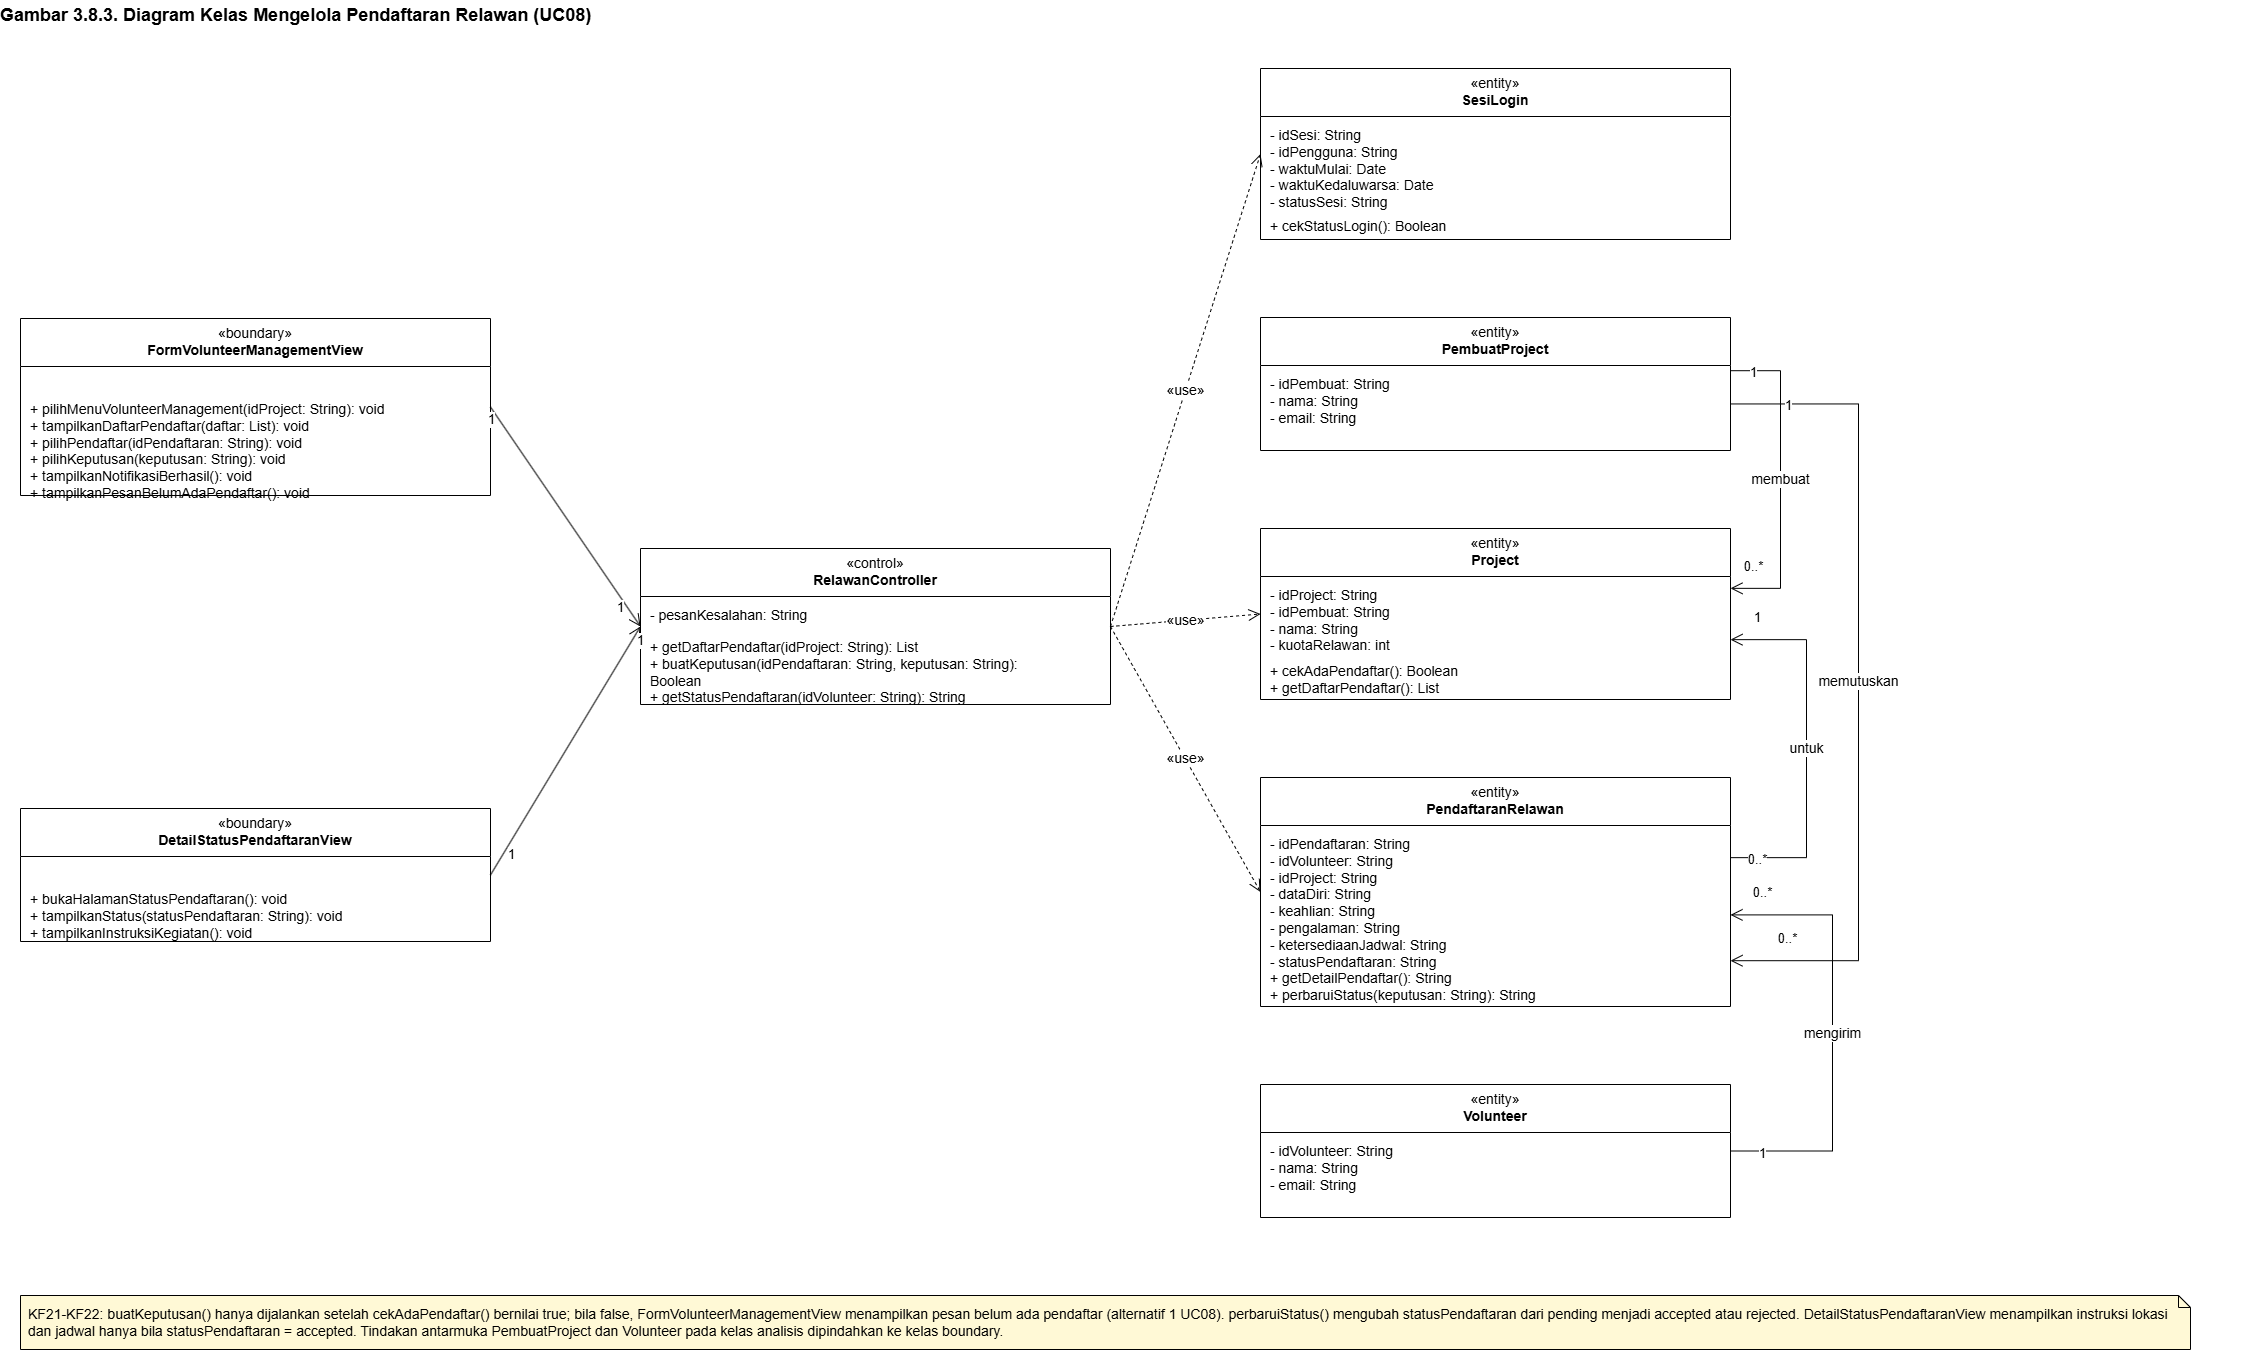
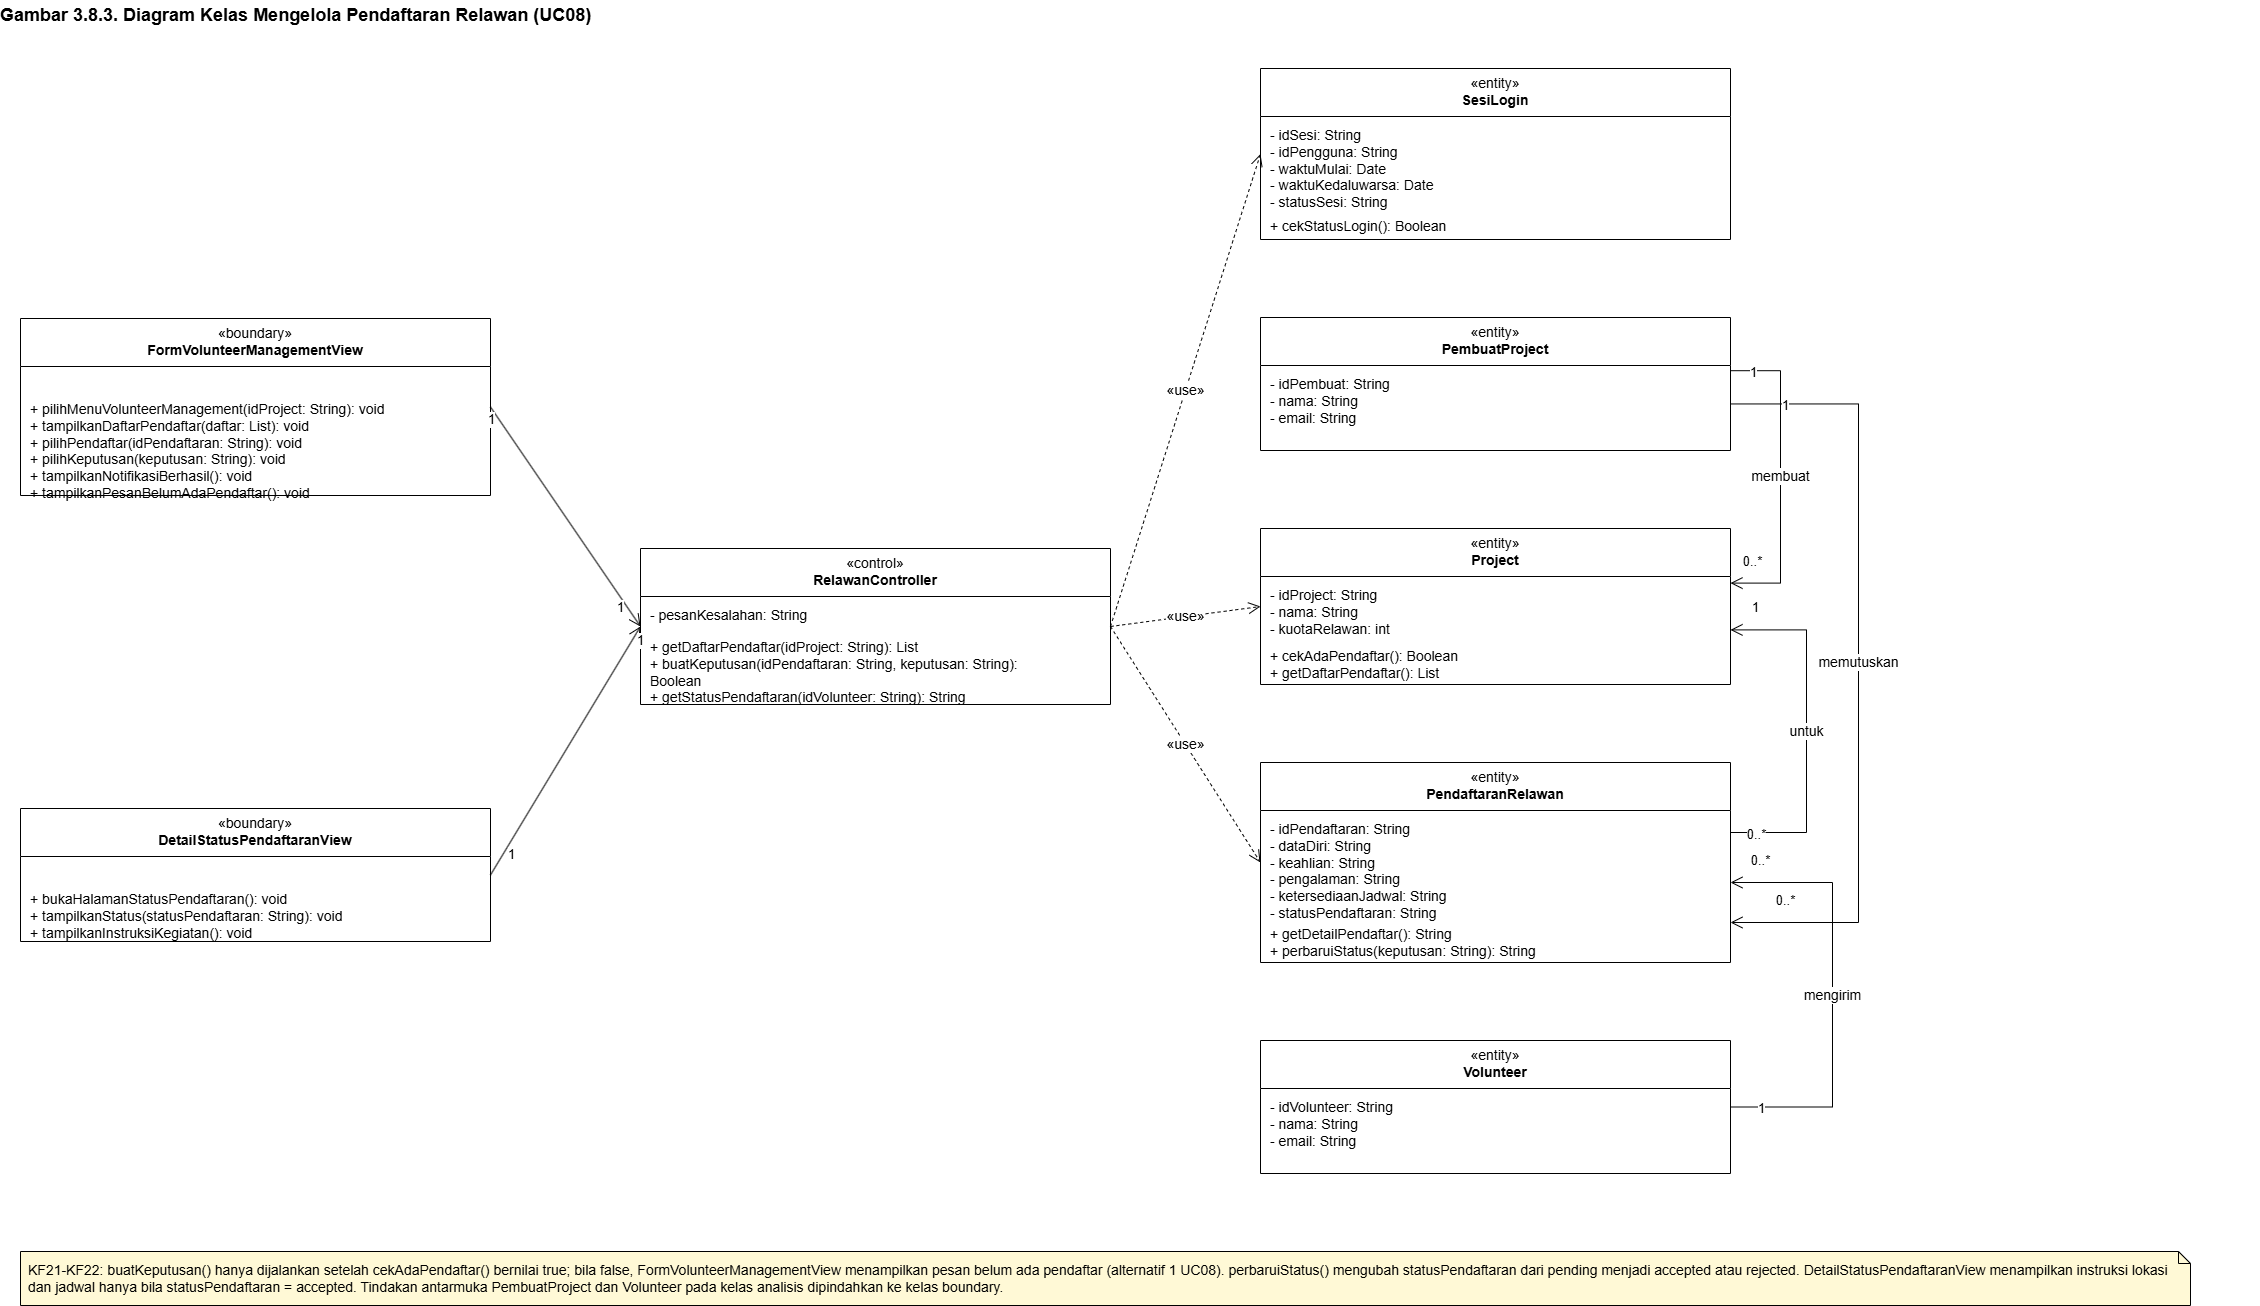
docs, assets: revisi 3.8-3.10

diff --git a/docs/M7/K02_G08_DPPL.md b/docs/M7/K02_G08_DPPL.md
@@ -683,7 +683,7 @@ Berkas sumber seluruh diagram UC05–UC07 yang dapat diedit di draw.io tersedia 
 
 ### 3.8.1 Identifikasi Kelas
 
-Realisasi UC08 memisahkan antarmuka pengelolaan pendaftar yang dipakai Pembuat Project dari antarmuka status pendaftaran yang dilihat Volunteer menjadi dua kelas *boundary*, yaitu `FormVolunteerManagementView` dan `DetailStatusPendaftaranView`. Keduanya berinteraksi dengan `RelawanController`, yaitu kelas *control* yang sudah dipakai pada UC07 dan kini juga mengoordinasikan peninjauan pendaftar serta pengambilan keputusan terima/tolak. Pemeriksaan status login tetap menjadi tanggung jawab `SesiLogin`. Kelas analisis PembuatProject (C10) dan Volunteer (C08) berperan sebagai aktor sekaligus pemilik data, sehingga tindakan antarmukanya (membuka menu, meninjau, memilih keputusan, melihat instruksi) dipindahkan ke kelas *boundary*, sedangkan data pengguna tetap berada pada kelas *entity* `PembuatProject` dan `Volunteer`. `Project` menampung daftar pendaftaran yang masuk dan memeriksa apakah sudah ada pendaftar, sedangkan data formulir pendaftar beserta status keputusannya (`pending`, `accepted`, `rejected`) tetap menjadi tanggung jawab `PendaftaranRelawan` sesuai deskripsi C09. Setelah status diperbarui, `DetailStatusPendaftaranView` menampilkan hasil keputusan kepada Volunteer, disertai instruksi lokasi dan jadwal apabila pendaftaran diterima.
+Realisasi UC08 memisahkan antarmuka pengelolaan pendaftar yang dipakai Pembuat Project dari antarmuka status pendaftaran yang dilihat Volunteer menjadi dua kelas *boundary*, yaitu `FormVolunteerManagementView` dan `DetailStatusPendaftaranView`. Keduanya berinteraksi dengan `RelawanController`, yaitu kelas *control* yang sudah dipakai pada UC07 dan kini juga mengoordinasikan peninjauan pendaftar serta pengambilan keputusan terima/tolak. Pemeriksaan status login tetap menjadi tanggung jawab `SesiLogin`. Kelas analisis PembuatProject (C10) dan Volunteer (C08) berperan sebagai aktor sekaligus pemilik data, sehingga tindakan antarmukanya (membuka menu, meninjau, memilih keputusan, melihat instruksi) diwujudkan melalui kelas *boundary*, sedangkan data pengguna beserta operasi analisisnya tetap berada pada kelas *entity* `PembuatProject` dan `Volunteer`. Setelah status diperbarui, `DetailStatusPendaftaranView` menampilkan hasil keputusan kepada Volunteer, disertai instruksi lokasi dan jadwal apabila pendaftaran diterima.
 
 Tabel 3.8. Identifikasi Kelas Use Case UC08
 
@@ -740,7 +740,7 @@ Alur berjalan sama dengan skenario normal sampai pemeriksaan pendaftar. `cekAdaP
 
 ### 3.9.1 Identifikasi Kelas
 
-Realisasi UC09 memakai satu kelas *boundary*, yaitu `FormProgresProjectView`, yang menerima data milestone, status pelaksanaan, dan berkas dokumentasi dari Pembuat Project serta menampilkan pesan kesalahan atau notifikasi keberhasilan. `ProgresController` berperan sebagai kelas *control* yang mengoordinasikan pembukaan halaman, pemeriksaan hak akses, dan penyimpanan pembaruan. Pemeriksaan status login tetap menjadi tanggung jawab `SesiLogin`. Kelas analisis PembuatProject (C10) berperan sebagai aktor sekaligus pemilik data, sehingga tindakan antarmukanya (membuka halaman, mengisi milestone, mengunggah dokumentasi) dipindahkan ke `FormProgresProjectView`, sedangkan data pengguna tetap berada pada kelas *entity* `PembuatProject`. Validasi hak akses, validasi format dan ukuran dokumentasi, penyimpanan pembaruan progres, serta pencatatan stempel waktu tetap menjadi tanggung jawab `Project` sesuai deskripsi C02. Peran Admin Sistem yang memastikan pengguna adalah Pembuat Project pada skenario diimplementasikan sebagai pemeriksaan otomatis `validasiHakAkses()` pada `Project`, sehingga tidak menjadi kelas tersendiri.
+Realisasi UC09 memakai satu kelas *boundary*, yaitu `FormProgresProjectView`, yang menerima data milestone, status pelaksanaan, dan berkas dokumentasi dari Pembuat Project serta menampilkan pesan kesalahan atau notifikasi keberhasilan. `ProgresController` berperan sebagai kelas *control* yang mengoordinasikan pembukaan halaman, pemeriksaan hak akses, dan penyimpanan pembaruan. Pemeriksaan status login tetap menjadi tanggung jawab `SesiLogin`. Kelas analisis PembuatProject (C10) berperan sebagai aktor sekaligus pemilik data, sehingga tindakan antarmukanya (membuka halaman, mengisi milestone, mengunggah dokumentasi) diwujudkan melalui `FormProgresProjectView`, sedangkan data pengguna beserta operasi analisisnya tetap berada pada kelas *entity* `PembuatProject`. Validasi hak akses, validasi format dan ukuran dokumentasi, penyimpanan pembaruan progres, serta pencatatan stempel waktu tetap menjadi tanggung jawab `Project` sesuai deskripsi C02. Peran Admin Sistem yang memastikan pengguna adalah Pembuat Project pada skenario diimplementasikan sebagai pemeriksaan otomatis `validasiHakAkses()` pada `Project`, sehingga tidak menjadi kelas tersendiri.
 
 Tabel 3.9. Identifikasi Kelas Use Case UC09
 
@@ -763,7 +763,7 @@ Tabel 3.9. Identifikasi Kelas Use Case UC09
 <i>Gambar 3.9.1. Sequence Diagram UC09 - Skenario Normal</i>
 </p>
 
-Pembuat Project membuka halaman pembaruan progres melalui `FormProgresProjectView`. `ProgresController` memeriksa status login melalui `SesiLogin.cekStatusLogin()`, kemudian meminta `Project` menjalankan `validasiHakAkses()` untuk memastikan pengguna adalah Pembuat Project dari project tersebut. Setelah lolos, `tampilkanFormulir()` menampilkan formulir pembaruan progres. Pembuat Project mengisi milestone dan status pelaksanaan, mengunggah dokumentasi, lalu mengirim formulir. `ProgresController` memanggil `validasiDokumentasi()` dan `simpanPembaruanProgres()` pada `Project`, lalu `catatTimestamp()` mencatat riwayat pembaruan beserta stempel waktunya dan menghubungkannya dengan project. `FormProgresProjectView` menampilkan notifikasi keberhasilan.
+Pembuat Project membuka halaman pembaruan progres melalui `FormProgresProjectView`. `ProgresController` memeriksa status login melalui `SesiLogin.cekStatusLogin()`, kemudian meminta `Project` menjalankan `validasiHakAkses()` untuk memastikan pengguna adalah Pembuat Project dari project tersebut. Setelah lolos, `tampilkanFormulir()` menampilkan formulir pembaruan progres. Pembuat Project mengisi milestone dan status pelaksanaan, mengunggah dokumentasi, lalu mengirim formulir. `ProgresController` memanggil `simpanPembaruanProgres()` pada `Project`, yang memeriksa format dan ukuran berkas dokumentasi sebelum menyimpan milestone, status pelaksanaan, dan dokumentasi progres. Setelah tersimpan, `catatTimestamp()` mencatat riwayat pembaruan beserta stempel waktunya dan menghubungkannya dengan project. `FormProgresProjectView` menampilkan notifikasi keberhasilan.
 
 - **Skenario Alternatif 1: Akses Ditolak (Bukan Pembuat Project)**
 
@@ -785,7 +785,7 @@ Alur berjalan sama dengan skenario normal sampai pemeriksaan hak akses. `validas
 <i>Gambar 3.9.3. Sequence Diagram UC09 - Gagal Mengunggah Dokumentasi Progres</i>
 </p>
 
-Alur berjalan sama dengan skenario normal sampai pengiriman formulir. `validasiDokumentasi()` pada `Project` mengembalikan `false` karena format atau ukuran berkas tidak valid, atau pengunggahan terputus akibat kesalahan jaringan. `simpanPembaruanProgres()` dan `catatTimestamp()` tidak dipanggil, sehingga pembaruan progres dibatalkan dan dokumen tidak tersimpan. `ProgresController` menyediakan pesan melalui `getPesanKesalahan()`, lalu `FormProgresProjectView` menampilkannya sebagai pesan kesalahan unggah berkas.
+Alur berjalan sama dengan skenario normal sampai pengiriman formulir. `simpanPembaruanProgres()` pada `Project` mengembalikan `false` karena format atau ukuran berkas tidak valid, atau pengunggahan terputus akibat kesalahan jaringan. Data tidak disimpan dan `catatTimestamp()` tidak dipanggil, sehingga pembaruan progres dibatalkan dan dokumen tidak tersimpan. `ProgresController` menyediakan pesan melalui `getPesanKesalahan()`, lalu `FormProgresProjectView` menampilkannya sebagai pesan kesalahan unggah berkas.
 
 ### 3.9.3 Diagram Kelas
 
@@ -805,7 +805,7 @@ Alur berjalan sama dengan skenario normal sampai pengiriman formulir. `validasiD
 
 ### 3.10.1 Identifikasi Kelas
 
-Realisasi UC10 memisahkan antarmuka daftar riwayat dari antarmuka detail riwayat menjadi dua kelas *boundary*. `FormRiwayatView` menampilkan menu dan daftar riwayat secara kronologis atau pesan bahwa riwayat belum tersedia, sedangkan `DetailRiwayatView` menampilkan rincian transaksi donasi (nominal, waktu, status) atau rincian laporan progres project. Keduanya berinteraksi dengan `RiwayatController` sebagai kelas *control* yang mengoordinasikan pengambilan riwayat dan detail, dengan pemeriksaan status login tetap menjadi tanggung jawab `SesiLogin`. Kelas analisis PenggunaUmum (C00) tetap dipertahankan sebagai kelas *entity* untuk data pengguna (termasuk perannya sebagai Pembuat Project, Donatur, atau Volunteer), sementara tindakan membuka menu riwayat ditangani oleh antarmuka. Catatan transaksi donasi tetap berada pada `TransaksiDonasi` sesuai deskripsi C06, sedangkan riwayat pembaruan progres (milestone dan status pelaksanaan) tetap berada pada `Project` sesuai deskripsi C02.
+Realisasi UC10 memisahkan antarmuka daftar riwayat dari antarmuka detail riwayat menjadi dua kelas *boundary*. `FormRiwayatView` menampilkan menu dan daftar riwayat secara kronologis atau pesan bahwa riwayat belum tersedia, sedangkan `DetailRiwayatView` menampilkan rincian transaksi donasi (nominal, waktu, status) atau rincian laporan progres project. Keduanya berinteraksi dengan `RiwayatController` sebagai kelas *control* yang mengoordinasikan pengambilan riwayat dan detail, dengan pemeriksaan status login tetap menjadi tanggung jawab `SesiLogin`. Kelas analisis PenggunaUmum (C00) tetap dipertahankan sebagai kelas *entity* untuk data pengguna (termasuk perannya sebagai Pembuat Project, Donatur, atau Volunteer) beserta operasi `bukaMenuRiwayat()`, sementara tampilan menu dan daftar riwayat diwujudkan melalui `FormRiwayatView`. Catatan transaksi donasi tetap berada pada `TransaksiDonasi` sesuai deskripsi C06, sedangkan riwayat pembaruan progres (milestone dan status pelaksanaan) tetap berada pada `Project` sesuai deskripsi C02.
 
 Tabel 3.10. Identifikasi Kelas Use Case UC10
 
@@ -871,18 +871,18 @@ Tabel 4.1. Daftar Kelas Perancangan Keseluruhan
 
 | ID Kelas | Nama Kelas | Atribut | Metode/Operasi |
 | :--- | :--- | :--- | :--- |
-| C00 | PenggunaUmum | `idPengguna`, `nama`, `peran`, `email` | `buatAkun()`, `bukaKatalog()` |
+| C00 | PenggunaUmum | `idPengguna`, `nama`, `peran`, `email` | `buatAkun()`, `bukaKatalog()`, `bukaMenuRiwayat()` |
 | C12 | Akun | `idAkun`, `email`, `passwordHash`, `statusAkun`, `tanggalDibuat` | `validasiKelengkapanInput()`, `cekKetersediaanEmail()`, `simpanAkun()`, `validasiKredensial()` |
 | C13 | SesiLogin | `idSesi`, `idPengguna`, `waktuMulai`, `waktuKedaluwarsa`, `statusSesi` | `buatSesi()`, `cekStatusLogin()`, `akhiriSesi()` |
 | C14 | FormPendaftaranView | - | `pilihMenuPendaftaran()`, `tampilkanFormulir()`, `isiFormulir()`, `kirimFormulir()`, `tampilkanPesanKesalahan()`, `tampilkanNotifikasiBerhasil()` |
 | C15 | FormLoginView | - | `isiKredensial()`, `kirimKredensial()`, `tampilkanPesanKesalahan()`, `arahkanKeHalamanUtama()` |
 | C16 | AutentikasiController | `pesanKesalahan` | `daftarAkun()`, `login()`, `getPesanKesalahan()` |
-| C10 | PembuatProject | `idPembuat`, `nama`, `email` | `buatCampaign()`, `buatProject()`, `ajukanVerifikasi()`, `terimaNotifikasiPendaftaran()`, `tinjauPendaftaran()` |
+| C10 | PembuatProject | `idPembuat`, `nama`, `email` | `buatCampaign()`, `buatProject()`, `ajukanVerifikasi()`, `bukaMenuVolunteerManagement()`, `tinjauPendaftar()`, `buatKeputusan()`, `bukaHalamanProgres()`, `isiPembaruanMilestone()`, `unggahDokumentasi()` |
 | C03 | Campaign | `idCampaign`, `judul`, `deskripsi`, `targetNominal`, `periodeMulai`, `periodeSelesai`, `status`, `alasanPenolakan`, `kebutuhan`, `lokasi`, `danaTerkumpul` | `validasiData()`, `validasiTarget()`, `validasiPeriode()`, `simpanCampaign()`, `tampilkanDetail()`, `ubahStatus()`, `getDaftarMenungguVerifikasi()`, `cekStatusCampaign()`, `tambahDana()` |
 | C17 | FormCampaignView | - | `pilihMenuBuatCampaign()`, `tampilkanFormulir()`, `isiFormulir()`, `kirimFormulir()`, `tampilkanPesanKesalahan()`, `tampilkanNotifikasiBerhasil()` |
 | C18 | DetailCampaignView | - | `bukaHalamanCampaign()`, `tampilkanDetail()` |
 | C19 | CampaignController | `pesanKesalahan` | `buatCampaign()`, `getPesanKesalahan()`, `getDetailCampaign()` |
-| C02 | Project | `idProject`, `nama`, `deskripsi`, `lokasi`, `tujuan`, `kebutuhanDana`, `kebutuhanLogistik`, `kriteriaVolunteer`, `status`, `alasanPenolakan`, `danaTerkumpul`, `kuotaRelawan`, `statusPendaftaranProject`, `idPembuat`, `milestone`, `statusPelaksanaan`, `dokumentasiProgres`, `timestampPembaruan` | `setInformasi()`, `setKebutuhan()`, `validasiData()`, `validasiKebutuhan()`, `simpanProject()`, `tampilkanDetail()`, `ubahStatus()`, `getDaftarMenungguVerifikasi()`, `cekStatusProject()`, `tambahDana()`, `cekKuota()`, `cekStatusPendaftaran()`, `cekAdaPendaftar()`, `getDaftarPendaftar()`, `validasiHakAkses()`, `validasiDokumentasi()`, `simpanPembaruanProgres()`, `catatTimestamp()`, `getRiwayatProgres()`, `getDetailProgres()` |
+| C02 | Project | `idProject`, `nama`, `deskripsi`, `lokasi`, `tujuan`, `kebutuhanDana`, `kebutuhanLogistik`, `kriteriaVolunteer`, `status`, `alasanPenolakan`, `milestone`, `statusPelaksanaan`, `dokumentasiProgres`, `timestampPembaruan` | `setInformasi()`, `setKebutuhan()`, `validasiData()`, `validasiKebutuhan()`, `simpanProject()`, `tampilkanDetail()`, `ubahStatus()`, `getDaftarMenungguVerifikasi()`, `cekAdaPendaftar()`, `getDaftarPendaftar()`, `validasiHakAkses()`, `simpanPembaruanProgres()`, `catatTimestamp()`, `getRiwayatProgres()`, `getDetailProgres()` |
 | C20 | FormProjectView | - | `pilihMenuBuatProject()`, `tampilkanFormulir()`, `isiInformasiProject()`, `tampilkanInformasi()`, `isiKebutuhan()`, `kirimFormulir()`, `tampilkanPesanKesalahan()`, `tampilkanNotifikasiBerhasil()` |
 | C21 | DetailProjectView | - | `bukaHalamanProject()`, `tampilkanDetail()` |
 | C22 | ProjectController | `pesanKesalahan` | `simpanInformasiDasar()`, `perbaruiInformasi()`, `isiKebutuhan()`, `kirimProject()`, `getPesanKesalahan()`, `getDetailProject()` |
@@ -906,7 +906,13 @@ Tabel 4.1. Daftar Kelas Perancangan Keseluruhan
 | C32 | DonasiController | `pesanKesalahan` | `getSebaran()`, `bukaFormDonasi()`, `konfirmasiDonasi()`, `getBuktiTransaksi()`, `getPesanKesalahan()` |
 | C33 | FormPendaftaranRelawanView | - | `tekanDaftar()`, `tampilkanFormulir()`, `isiFormulir()`, `kirimPendaftaran()`, `tampilkanPesanKesalahan()`, `tampilkanStatus()` |
 | C34 | RelawanController | `pesanKesalahan` | `getSebaranProject()`, `bukaFormPendaftaran()`, `daftarRelawan()`, `getPesanKesalahan()`, `getDaftarPendaftar()`, `buatKeputusan()`, `getStatusPendaftaran()` |
-| ... | *[Kelas perancangan UC08–UC10 dari Sahla]* | ... | ... |
+| C35 | FormVolunteerManagementView | - | `pilihMenuVolunteerManagement()`, `tampilkanDaftarPendaftar()`, `pilihPendaftar()`, `pilihKeputusan()`, `tampilkanNotifikasiBerhasil()`, `tampilkanPesanBelumAdaPendaftar()` |
+| C36 | DetailStatusPendaftaranView | - | `bukaHalamanStatusPendaftaran()`, `tampilkanStatus()`, `tampilkanInstruksiKegiatan()` |
+| C37 | FormProgresProjectView | - | `pilihMenuProgres()`, `tampilkanFormulir()`, `isiPembaruanMilestone()`, `unggahDokumentasi()`, `kirimFormulir()`, `tampilkanPesanKesalahan()`, `tampilkanNotifikasiBerhasil()` |
+| C38 | ProgresController | `pesanKesalahan` | `bukaHalamanProgres()`, `perbaruiProgres()`, `getPesanKesalahan()` |
+| C39 | FormRiwayatView | - | `pilihMenuRiwayat()`, `tampilkanDaftarRiwayat()`, `pilihRiwayat()`, `tampilkanPesanRiwayatKosong()` |
+| C40 | DetailRiwayatView | - | `tampilkanDetailTransaksi()`, `tampilkanDetailProgres()` |
+| C41 | RiwayatController | - | `getRiwayat()`, `getDetailTransaksi()`, `getDetailProgres()` |
 
 <br>
 
